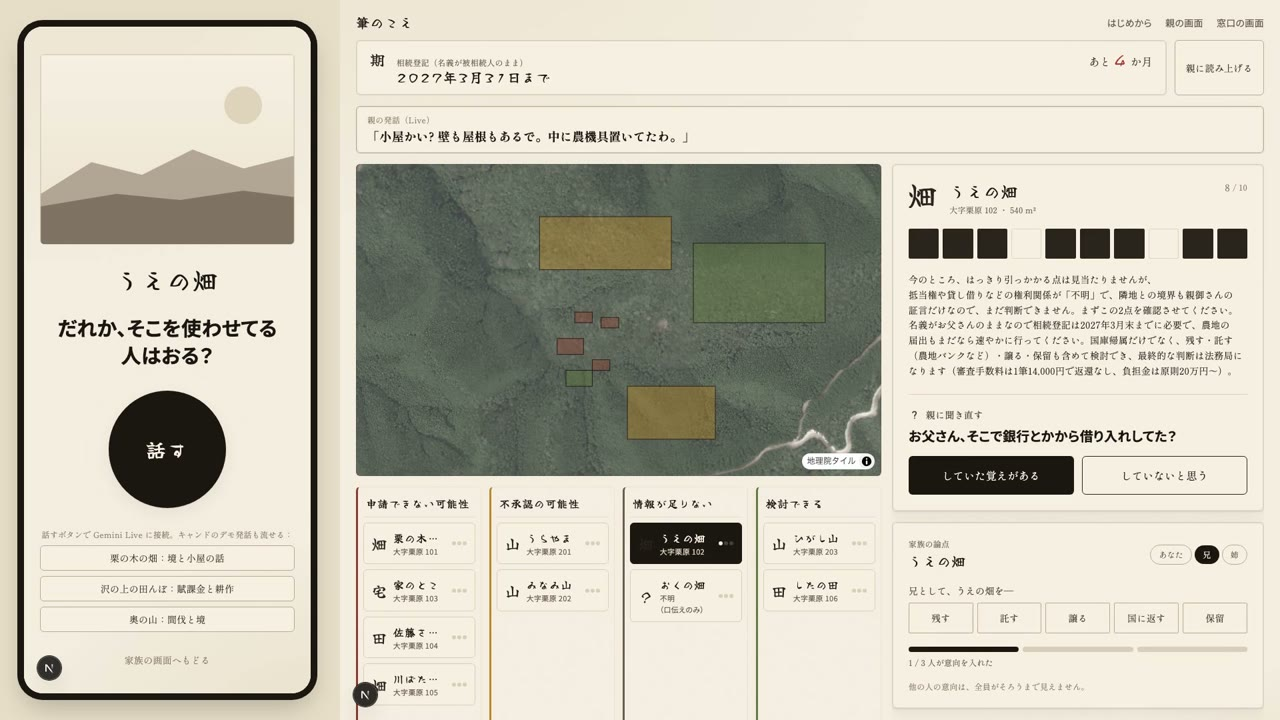
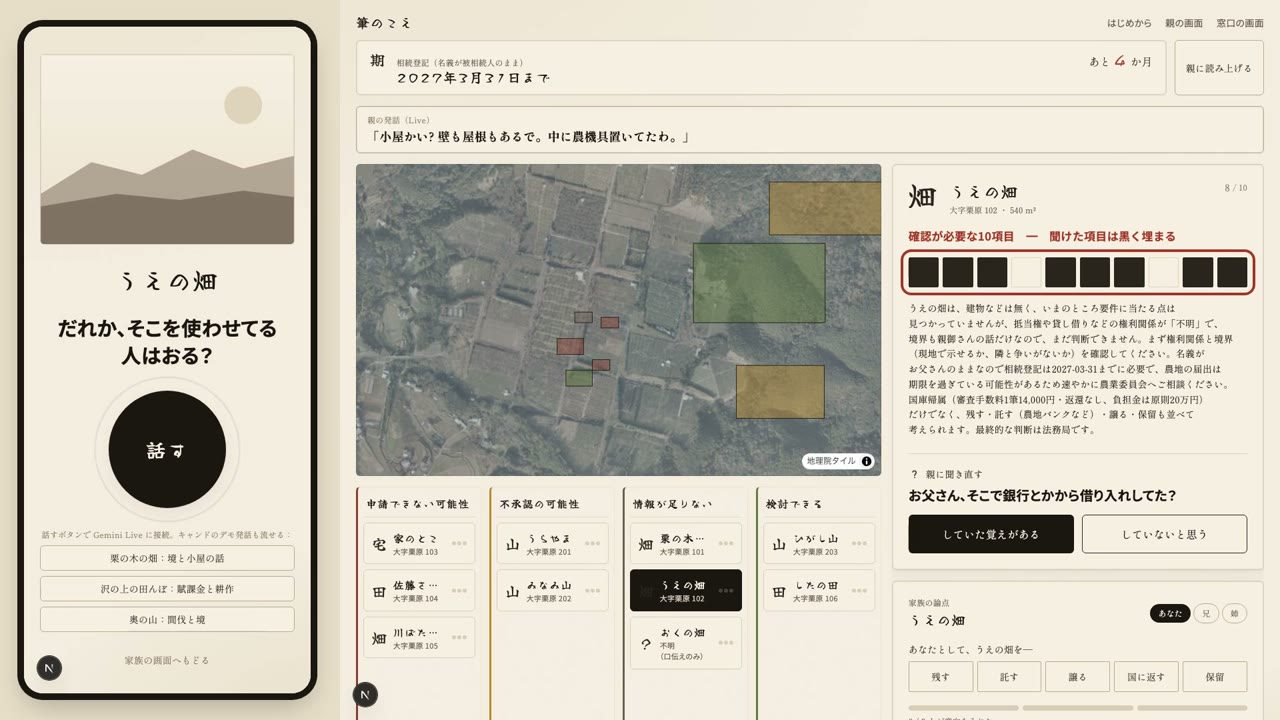
デモの土地を田辺市の山あいへ移し、効き目の場面を差の大きい項目で見せる
- 筆の位置と地図の中心を田辺市へ。山の筆は林の上に置き直し、窓口メールの所在地も田辺市に
- 効き目のカード：取得の経緯 6→25件、申請不可の見抜き 8→10件、崖・隣地・毎年の負担
- eval-log に項目別の全数値（アプリなしが多かった項目も）を追記
- 収録：二択の文言が毎回変わるので、意味で選ぶように

diff --git a/scripts/video/cards.ts b/scripts/video/cards.ts
@@ -69,28 +69,37 @@ function archHtml(): string {
 }
 
 function evalsHtml(): string {
-  const bar = (label: string, before: number, after: number, y: number) => `
-  <div style="position:absolute;left:160px;top:${y}px;width:1600px">
-    <div style="font-size:46px;font-weight:700">${label}</div>
-    <div style="display:flex;align-items:center;gap:28px;margin-top:18px">
-      <div style="width:230px;font-size:30px;color:${C.sumi500}">アプリなし</div>
-      <div style="height:50px;width:${before * 11}px;background:${C.sumi300};border-radius:6px"></div>
-      <div style="font-size:46px;font-weight:700;color:${C.sumi500}">${before}%</div>
+  // 数字はすべて runs/effect-20261107-1722.jsonl（25件・各8問）から。項目ごとの全数値は docs/eval-log.md
+  const bar = (label: string, n: number, before: number, after: number, y: number) => `
+  <div style="position:absolute;left:1000px;top:${y}px;width:820px">
+    <div style="font-size:34px;font-weight:700">${label}</div>
+    <div style="display:flex;align-items:center;gap:18px;margin-top:10px">
+      <div style="height:30px;width:${(before / n) * 560}px;background:${C.sumi300};border-radius:5px"></div>
+      <div style="font-size:30px;font-weight:700;color:${C.sumi500}">${before}/${n}</div>
     </div>
-    <div style="display:flex;align-items:center;gap:28px;margin-top:14px">
-      <div style="width:230px;font-size:30px;font-weight:700;color:${C.sumi900}">アプリあり</div>
-      <div style="height:50px;width:${after * 11}px;background:${C.beni};border-radius:6px"></div>
-      <div style="font-size:58px;font-weight:700;color:${C.beni}">${after}%</div>
+    <div style="display:flex;align-items:center;gap:18px;margin-top:8px">
+      <div style="height:30px;width:${(after / n) * 560}px;background:${C.beni};border-radius:5px"></div>
+      <div style="font-size:38px;font-weight:700;color:${C.beni}">${after}/${n}</div>
     </div>
   </div>`;
   return `${HEAD}<div class="brand">筆のこえ</div>
-  <div style="position:absolute;left:160px;top:120px;font-size:34px;color:${C.sumi700}">親役・子役を AI で模擬し、8問ずつ聞き取り（25件）</div>
-  ${bar("必要な項目を聞き出せた", 49, 70, 200)}
-  ${bar("判定が正解と一致", 72, 84, 470)}
-  <div style="position:absolute;left:160px;top:760px;font-size:38px;font-weight:700;color:${C.sumi900}">
-    Skills で判定 <span style="color:${C.sumi500}">84%</span> → <span style="color:${C.beni}">100%</span>　／　士業ガード 96%以上・止めすぎ <span style="color:${C.matcha}">0件</span>
+  <div style="position:absolute;left:120px;top:150px;font-size:34px;color:${C.sumi700}">AI が演じる親に、8問ずつ聞き取り（25件）　<span style="color:${C.sumi500}"><span style="color:${C.sumi300}">■</span> アプリなし</span>　<span style="color:${C.beni};font-weight:700">■ アプリあり</span></div>
+  <div style="position:absolute;left:120px;top:250px;width:800px">
+    <div style="font-size:40px;font-weight:700;line-height:1.5">申請できるかを左右する<br>「土地をどう手に入れたか」</div>
+    <div style="display:flex;align-items:baseline;gap:30px;margin-top:30px">
+      <div style="font-size:120px;font-weight:700;color:${C.sumi400}">6</div>
+      <div style="font-size:60px;color:${C.sumi400}">→</div>
+      <div style="font-size:200px;font-weight:700;color:${C.beni};line-height:1">25</div>
+      <div style="font-size:44px;font-weight:700;color:${C.beni}">件</div>
+    </div>
+    <div style="font-size:30px;color:${C.sumi700};margin-top:10px">25件中、カードに残せた件数</div>
+    <div style="font-size:38px;font-weight:700;margin-top:70px">申請できない土地を見抜けた</div>
+    <div style="font-size:56px;font-weight:700;margin-top:6px"><span style="color:${C.sumi400}">8</span> <span style="color:${C.sumi400};font-size:40px">→</span> <span style="color:${C.beni}">10</span><span style="font-size:32px;color:${C.sumi700}">　／10件</span></div>
   </div>
-  <div style="position:absolute;left:160px;top:900px;width:1600px;font-size:24px;line-height:1.6;color:${C.sumi400}">claude-sonnet-5-5。模擬の聞き取りで、実際の家族での効果ではありません。判定の100%は同じ25件を見ながら直した値（docs/eval-log.md）</div>
+  ${bar("急な崖", 24, 13, 24, 250)}
+  ${bar("隣とのもめごと・通り道", 25, 13, 23, 450)}
+  ${bar("毎年かかるお金（土地改良区など）", 25, 3, 15, 650)}
+  <div style="position:absolute;left:120px;top:940px;width:1700px;font-size:22px;line-height:1.6;color:${C.sumi400}">親役・子役・採点とも Claude による模擬（claude-sonnet-5-5、1回の実行）。実際の家族での効果ではありません。親が答えを知っている件数あたりの値。全11項目の平均は 49%→70%（項目別の全数値は docs/eval-log.md）。</div>
   </body></html>`;
 }
 

diff --git a/scripts/video/record.ts b/scripts/video/record.ts
@@ -191,7 +191,10 @@ async function main() {
     );
   });
   await sleep(1.0);
-  await family.getByRole("button", { name: ask.choice }).click();
+  // 二択の文言は Claude が毎回つくるので、意味で選ぶ（見つからなければ従来の文言）
+  const choiceRe = { use: /誰も|だれも|使って(い)?ない|いない|おらん/, security: /して(い)?ない|ない/, boundary: /ない/ }[ask.key];
+  const btn = family.getByRole("button", { name: choiceRe }).first();
+  await ((await btn.isVisible().catch(() => false)) ? btn : family.getByRole("button", { name: ask.choice })).click();
   await sleep(0.5);
   cut();
   // 答えが反映され、次の質問に替わるまで待つ（Claude の待ちは切る）

diff --git a/scripts/video/script.ts b/scripts/video/script.ts
@@ -119,7 +119,7 @@ export const SCENES: Scene[] = [
     id: "12-evals",
     visual: { kind: "evals" },
     narration:
-      "アプリの効き目も測りました。AI が演じる親と子で8問ずつ聞き取ると、必要な項目を聞き出せた割合は、アプリなしの49パーセントから70パーセントへ。Skills で判定は100パーセント、士業ガードの止めすぎはゼロです。",
+      "効き目も測りました。申請できるかを左右する、土地の手に入れ方。アプリなしでカードに残せたのは25件中6件、アプリありでは25件すべて。申請できない土地も、10件すべて見抜けました。",
   },
   {
     id: "14-close",

diff --git a/src/components/CounterEmailDraft.tsx b/src/components/CounterEmailDraft.tsx
@@ -40,7 +40,7 @@ function buildBody(props: Props): string {
   lines.push(INTROS[props.office]);
   lines.push("");
   lines.push("【対象の土地】");
-  if (townName) lines.push(`所在地：和歌山県日高郡 ${townName}（架空デモの地番）`);
+  if (townName) lines.push(`所在地：和歌山県田辺市 ${townName}（架空デモの地番）`);
   items.forEach((x, i) => {
     const area = x.card.menseki_m2 ? `${x.card.menseki_m2.toLocaleString()} m²` : "面積不明";
     lines.push(`${i + 1}. ${x.card.chiban}（${x.card.toki_chimoku}・${area}）／筆のこえ上の判定：${x.judge.verdict}`);

diff --git a/src/components/MapView.tsx b/src/components/MapView.tsx
@@ -65,7 +65,7 @@ export function MapView({ geo, activeId, verdictOf, onSelect }: Props) {
     const map = new maplibregl.Map({
       container: containerRef.current,
       style: STYLE,
-      center: [135.5008, 33.95005],
+      center: [135.4364, 33.7988],
       zoom: 15.5,
       attributionControl: { compact: true },
     });

diff --git a/docs/eval-log.md b/docs/eval-log.md
@@ -20,3 +20,23 @@
 | 2026-11-08 02:53 | effect-v0（8件で中断）| 49% → 46% | 3 / 2 | 50% → 88% | Anthropic の利用上限で8件で停止。件数が少なく参考値 |
 | 2026-11-08 03:11 | effect-v1（24件）| 52% → 48% | 6 / 3 | 67% → 63% | **差なし**。原因：アプリが同じ質問を繰り返していた（例：8問中4問が「借り入れしてた？」）。子役も Claude で要所を押さえて複数項目を一度に聞く |
 | 2026-11-08 03:22 | effect-v2（25件）| **49% → 70%** | 6 / 6 | **72% → 84%** | `nextQuestionWithClaude` に聞いた質問を渡し、繰り返さないよう修正（家族の画面も同じ）。アプリありの平均質問数 7.9（同じ質問の繰り返し 0件）。1回の実行で、ぶれは未計測 |
+
+### effect-v2 の項目別（親が答えを知っている件数のうち、カードに答えが残った件数）
+
+`runs/effect-20261107-1722.jsonl`。値が「不明」以外で埋まった件数で、正誤は見ていない（正誤込みの合計が上の表の 49%→70%）。
+
+| 項目 | 親が知っている | アプリなし | アプリあり |
+| --- | --- | --- | --- |
+| 取得の経緯（申請資格） | 25 | 6 | **25** |
+| 建物 | 24 | 19 | **24** |
+| 境界 | 23 | 20 | **23** |
+| 他人の使用 | 24 | 22 | **24** |
+| 崖 | 24 | 13 | **24** |
+| 隣地とのもめごと・通行 | 25 | 13 | **23** |
+| 毎年の負担 | 25 | 3 | **15** |
+| 地下埋設物 | 24 | 8 | **12** |
+| 山の手入れ | 3 | 2 | **3** |
+| 担保・貸し借り | 24 | **18** | 7 |
+| 土砂災害警戒区域 | 24 | **4** | 0 |
+
+判定別：「申請不可」10件のうち正しく判定 アプリなし 8 → あり 10、「不承認の可能性」7件のうち 5 → 6。担保と警戒区域はアプリなしのほうが多く残った（警戒区域は本来ハザード地図で引く項目で、アプリは親に聞かない）。動画（12-evals）は差の大きい項目を選んで見せている。

diff --git a/docs/setup.md b/docs/setup.md
@@ -9,8 +9,8 @@
 | 3 ★ | Jev API キー | TypeSafe AI のコンソール（取得済み） | 入力 $0.042/1Mトークン | 会話中の即時判断、ガード |
 | 4 ★ | GitHub の公開リポジトリ | GitHub | 無料 | 提出（OSS 要件の可能性） |
 | 5 ★ | Cloudflare アカウント | Cloudflare | 無料枠 | スマホのマイクは HTTPS 必須のため公開URLが要る（Workers + カスタムドメイン） |
-| 7 ★ | G空間情報センターのアカウント | G空間情報センター（無料登録） | 無料 | 日高町の登記所備付地図XMLをダウンロード |
-| 8 | 和歌山県の森林計画情報 | 県の公開サービス（申請不要・注意事項に同意） | 無料 | 林班・小班 Shapefile、日高町の森林資源 Excel |
+| 7 ★ | G空間情報センターのアカウント | G空間情報センター（無料登録） | 無料 | 対象市町村の登記所備付地図XMLをダウンロード |
+| 8 | 和歌山県の森林計画情報 | 県の公開サービス（申請不要・注意事項に同意） | 無料 | 林班・小班 Shapefile、市町村別の森林資源 Excel |
 | — | e-Gov 法令API v2 | キー不要 | 無料 | 条文の取得と引用の実在確認 |
 | — | 地理院タイル（空中写真） | キー不要（出典表示が必要） | 無料 | 背景地図 |
 | — | 国土数値情報 A33（土砂災害警戒区域） | キー不要 | 無料 | ハザードの重ね合わせ |

diff --git a/data/demo/README.md b/data/demo/README.md
@@ -2,7 +2,7 @@
 
 デモ用のつくりばなし。実在の地名・地番・座標とは関係ない。実在家族の実データは絶対に置かない。
 
-- 位置：和歌山県の内陸山間部あたりを想定（座標はダミー）
+- 位置：和歌山県田辺市の山あいを想定（地図の位置は空中写真に合わせて置いただけで、実在の地番・所有とは関係ない）
 - 筆：10筆（畑3・田2・山林4・宅地1）
 - 親の呼び名：方言混じりの短い言葉。地番は家族の画面側で紐付け
 - 位置未確定の筆：D002（任意座標系で地図に載せられない）、D010（口伝えだけ）
